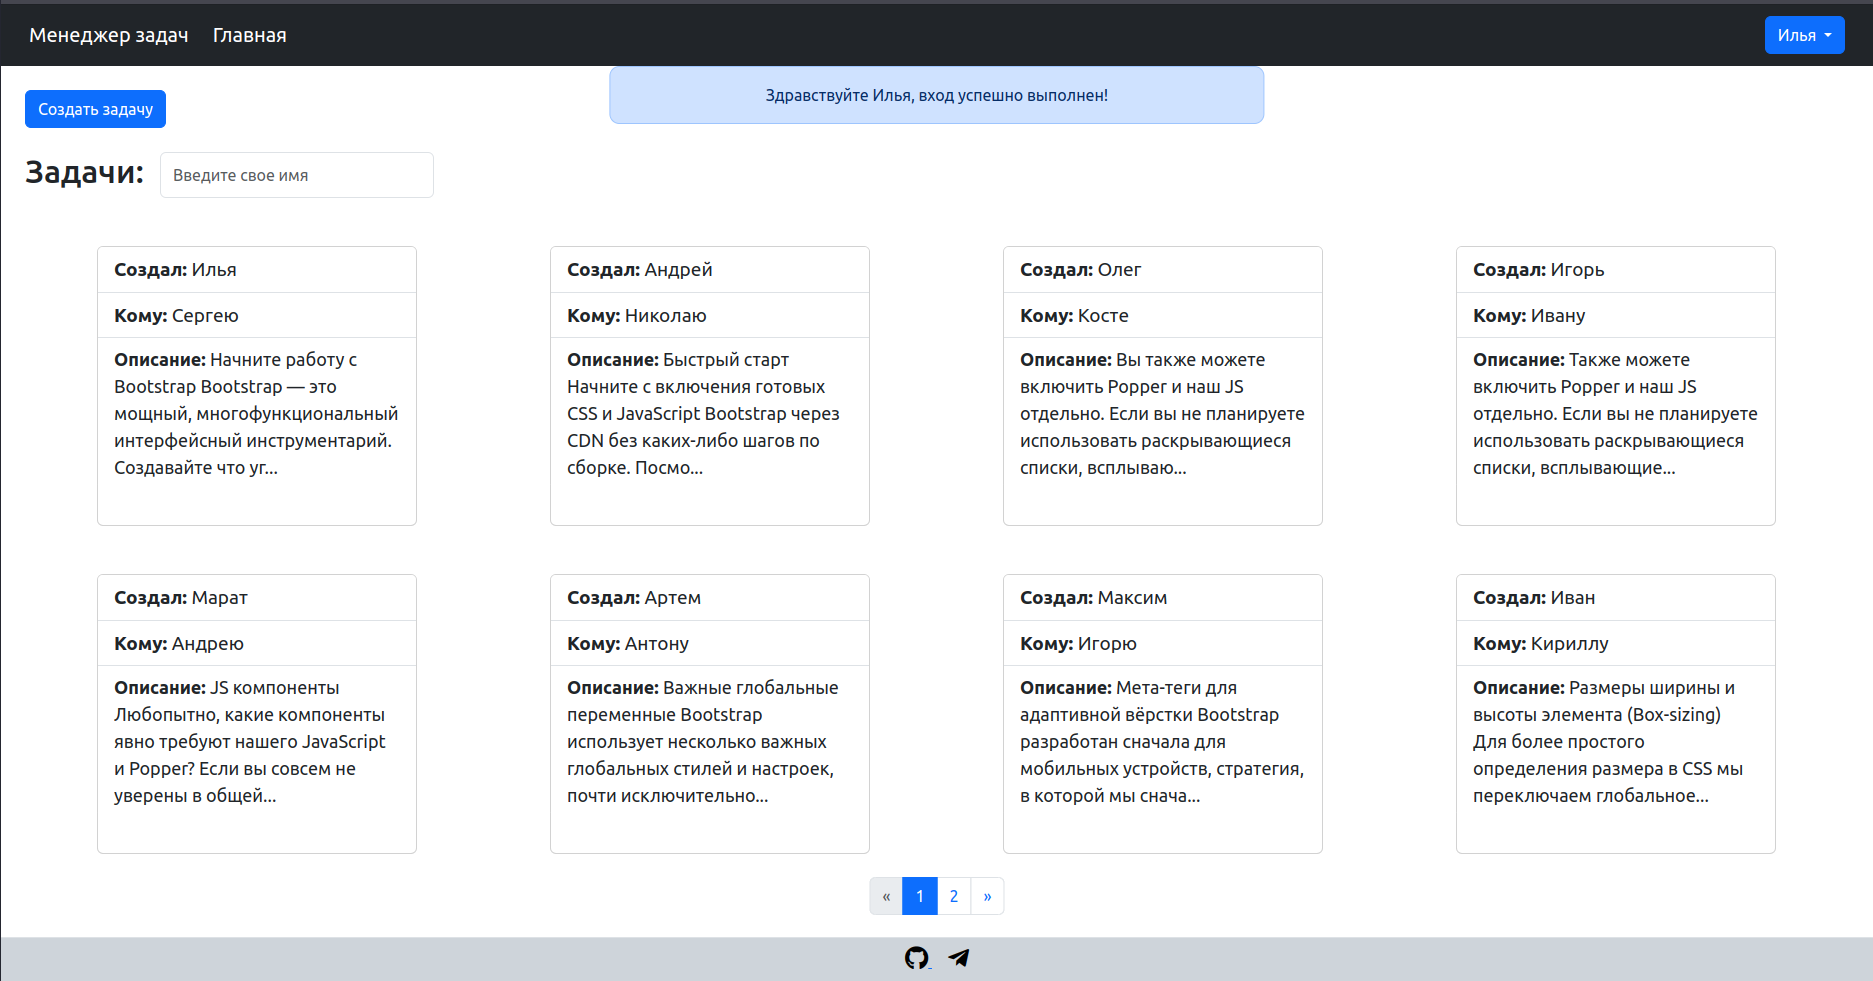
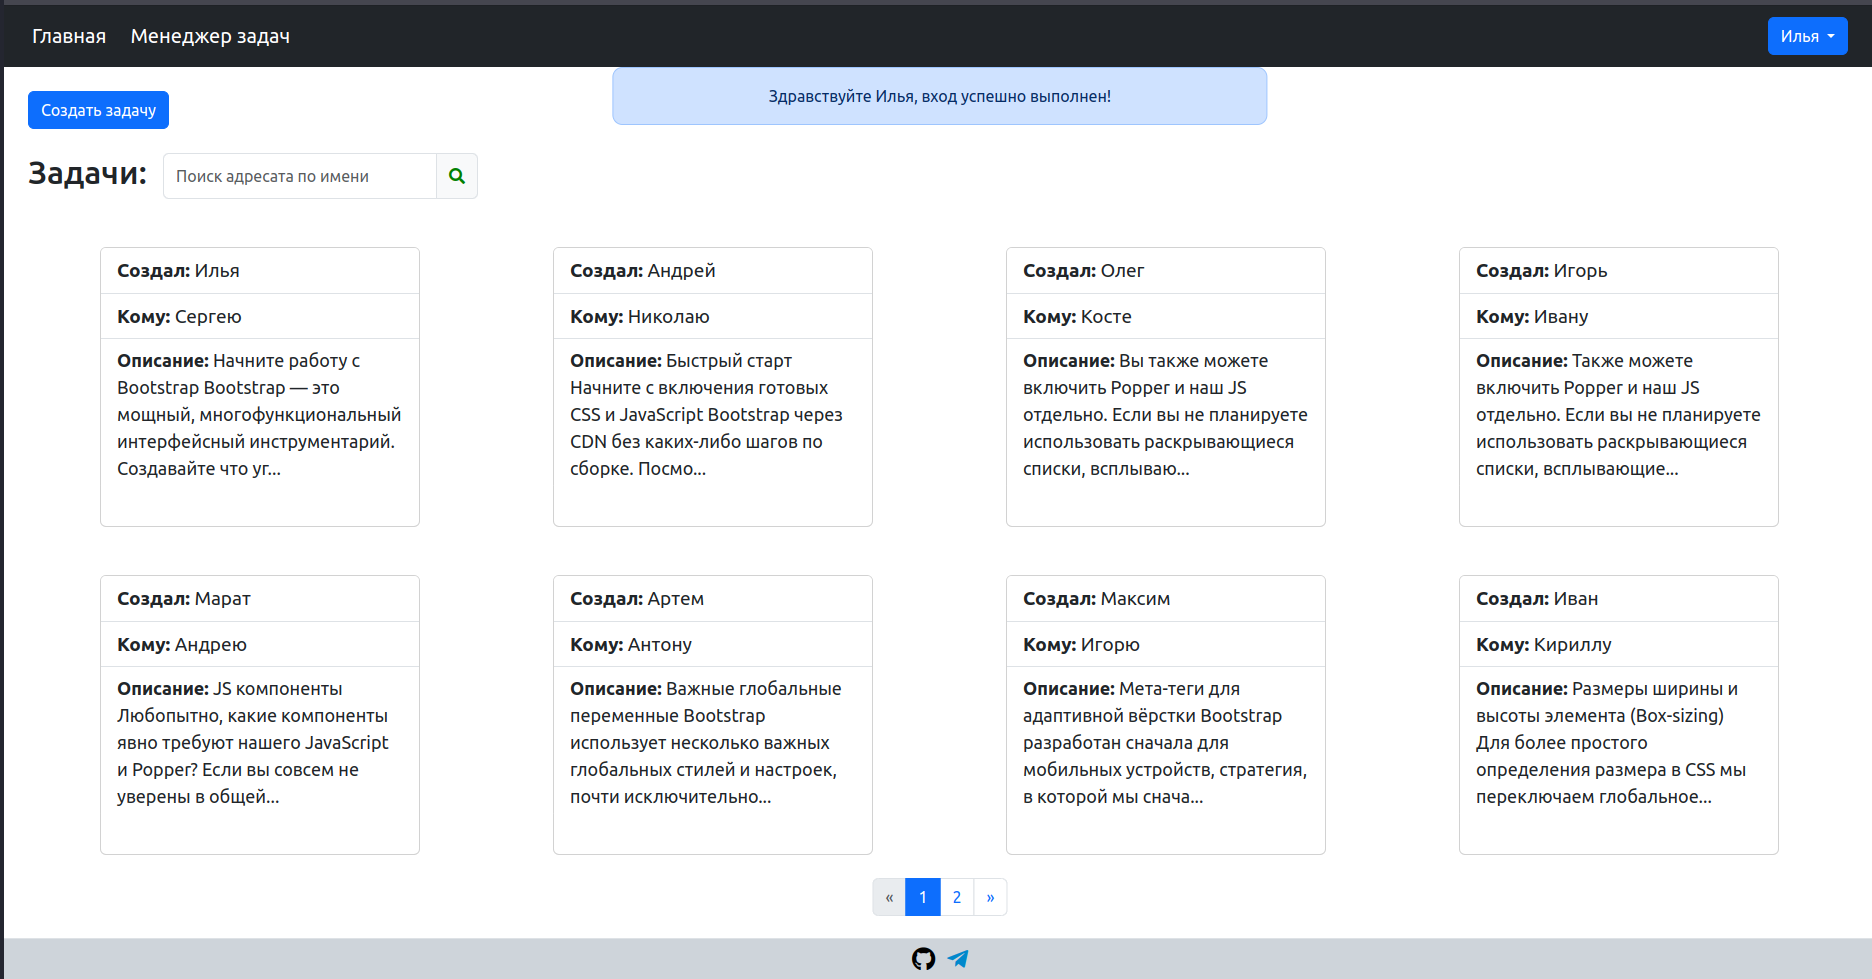
update project

diff --git a/public/css/app.css b/public/css/app.css
@@ -58,7 +58,6 @@ body .alert-fixed-top {
 /* Иконки footer */
 .social-links i {
   font-size: 1.5em; /* Изменяет размер иконок */
-  color: black; /* Можно также изменить цвет */
   transition: color 0.3s ease;
 }
 
@@ -68,7 +67,22 @@ body .alert-fixed-top {
   color: #979494;
 }
 
-/* Telegram color */
+
+/* Специфические цвета для каждой иконки */
+.social-links .fa-github {
+  color: black; /* Цвет для GitHub иконки */
+}
+
+
 .social-links .telegram-icon {
   color: #0088CC; /* Оригинальный синий цвет Telegram */
+}
+
+.social-links a {
+  text-decoration: none; /* Убирает подчеркивание */
+}
+
+/* Стиль для иконки внутри поля поиска */
+.fas.fa-search {
+  color: green; /* Цвет иконки */
 }

diff --git a/resources/views/includes/header.blade.php b/resources/views/includes/header.blade.php
@@ -1,14 +1,14 @@
 <header>
     <nav class="navbar navbar-expand-lg text-bg-dark p-2">
         <div class="container-fluid">
-            <a class="navbar-brand ms-2 text-white" href="{{ route('home') }}">Менеджер задач</a>
+            <a class="navbar-brand ms-2 text-white" href="{{ route('home') }}">Главная</a>
             <button class="navbar-toggler" type="button" data-bs-toggle="collapse" data-bs-target="#navbarNavDropdown" aria-controls="navbarNavDropdown" aria-expanded="false" aria-label="Переключатель навигации">
                 <span class="navbar-toggler-icon"></span>
             </button>
             <div class="collapse navbar-collapse" id="navbarNavDropdown">
                 <ul class="navbar-nav">
                     <li class="nav-item">
-                        <a class="nav-link active fs-5 text-white" aria-current="page" href="{{ route('home') }}">Главная</a>
+                        <a class="nav-link active fs-5 text-white" aria-current="page" href="{{ route('home') }}">Менеджер задач</a>
                     </li>
                 </ul>
             </div>

diff --git a/resources/views/login/index.blade.php b/resources/views/login/index.blade.php
@@ -15,7 +15,7 @@
 
                     <div class="mb-3 text-start">
                         <label for="exampleInputEmail1" class="form-label">Адрес электронной почты</label>
-                        <input type="email" class="form-control {{ $errors->has('email') ? 'is-invalid' : '' }}" id="exampleInputEmail1" name="email" aria-describedby="emailHelp" placeholder="Введите почту" value="{{ old('email') }}" autocomplete="off">
+                        <input type="email" class="form-control {{ $errors->has('email') ? 'is-invalid' : '' }}" id="exampleInputEmail1" name="email" aria-describedby="emailHelp" placeholder="Введите почту" value="{{ old('email') }}">
                         @if ($errors->has('email'))
                         <div class="invalid-feedback">
                             {{ $errors->first('email') }}

diff --git a/resources/views/home/index.blade.php b/resources/views/home/index.blade.php
@@ -18,7 +18,10 @@
 <div class="col-span-full d-flex justify-content-start ms-4 mt-4">
     <div class="d-flex" role="search">
         <h2>Задачи:</h2>
-        <input class="form-control me-2 ms-3" name="search" type="search" placeholder="Поиск адресата по имени" aria-label="Поиск">
+        <div class="input-group">
+            <input class="form-control ms-3" name="search" type="search" placeholder="Поиск адресата по имени" aria-label="Поиск">
+            <span class="input-group-text"><i class="fas fa-search"></i></span> <!-- Иконка лупы -->
+        </div>
     </div>
 </div>
 

diff --git a/app/Http/Controllers/Auth/RegisterController.php b/app/Http/Controllers/Auth/RegisterController.php
@@ -18,7 +18,7 @@ class RegisterController extends Controller
             'email.required' => 'Email обязателен для заполнения',
             'email.unique' => 'Такой email уже зарегистрирован.',
             'password.required' => 'Пароль обязателен для заполнения',
-            // Другие кастомные сообщения при необходимости
+            'password' => 'Пароль должен быть не менее 6 символов.',
         ];
 
         $request->validate([

diff --git a/resources/views/includes/footer.blade.php b/resources/views/includes/footer.blade.php
@@ -1,6 +1,6 @@
 <footer class="py-2 border-top bg-dark-subtle mt-auto">
     <div class="social-links">
-        <a href="https://github.com/eCo13rus" class="me-3">
+        <a href="https://github.com/eCo13rus" class="me-2">
             <i class="fab fa-github"></i>
         </a>
         <a href="https://t.me/eCo13reg" class="">
